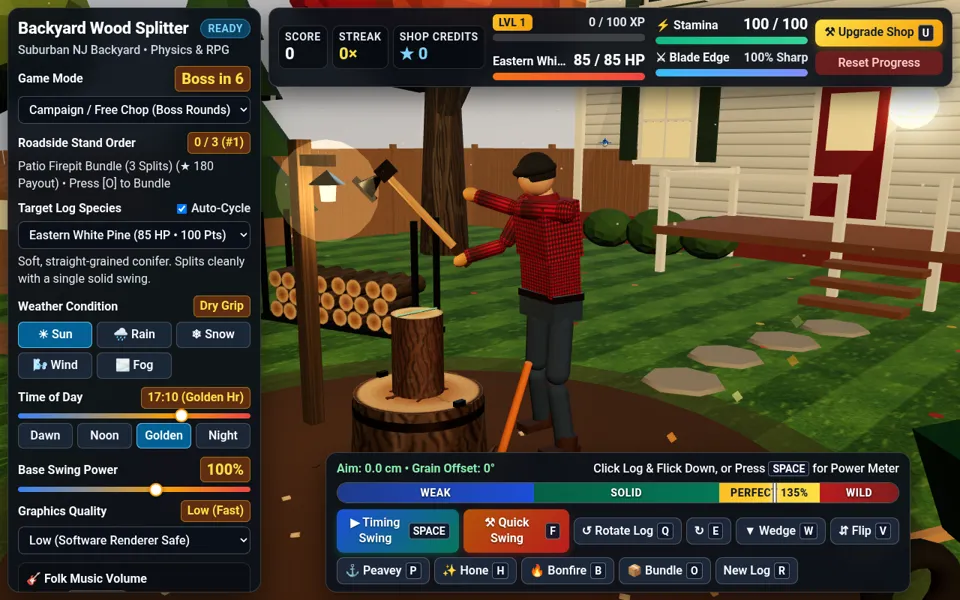
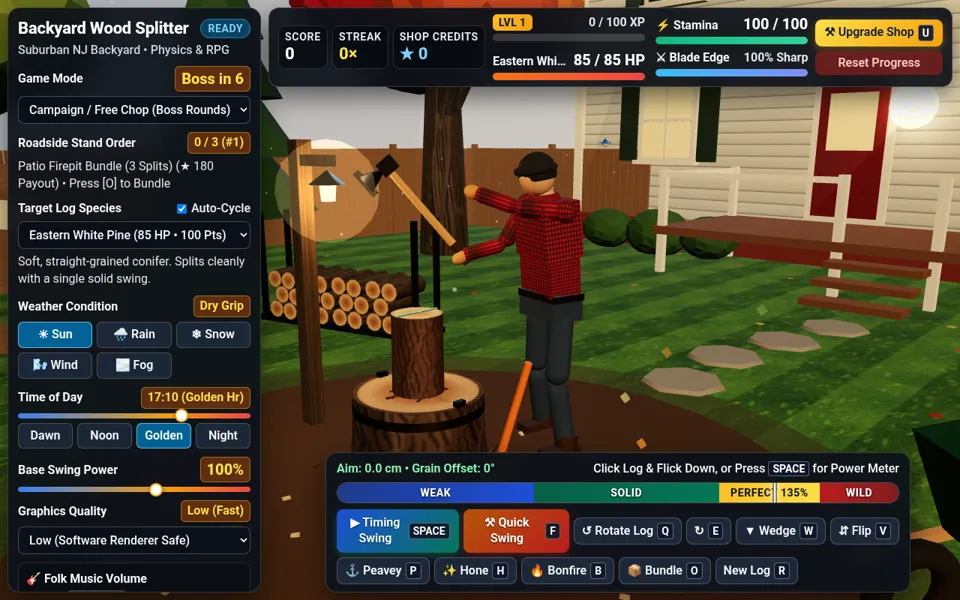
Gemini 4 Argon (in progress): live c4d6ded iter-9, classic c4d6ded iter-9; est. cost refreshed

diff --git a/cost/index.html b/cost/index.html
@@ -70,7 +70,7 @@
 <!-- GEMINI-COST-NOTE START (generated by tools/build_blog.py) -->
 <section class="gemcost" id="gemini-cost" aria-labelledby="gemcost-title">
 <h3 class="h-mid" id="gemcost-title">Gemini 4 Argon so far <span class="tag tag--est">est.</span> <span class="tag tag--est">in progress</span></h3>
-<p class="fine">Gemini 4 Argon is <strong>not</strong> in the table or totals above: it is still being built, and its dollars are <strong>est.</strong> (login-based, not billed). Driver state as of 2026-10-24 08:21:56 EDT.</p>
+<p class="fine">Gemini 4 Argon is <strong>not</strong> in the table or totals above: it is still being built, and its dollars are <strong>est.</strong> (login-based, not billed). Driver state as of 2026-10-24 08:49:07 EDT.</p>
 <div class="tablewrap"><table class="scoreboard" id="sb-gemini">
 <caption class="sr-only">Gemini 4 Argon: estimated cost so far</caption>
 <colgroup><col class="col-metric"><col></colgroup>
@@ -254,7 +254,7 @@
 <tr><th scope="row">assets-v2 attempt-2 (first pass, killed)</th><td class="">10-22 16:04</td><td class="">n/a</td><td class="">n/a</td><td class="">n/a</td><td class="">n/a</td><td class="">$0.29</td><td class=""><span class="tag tag--est">measured via balance</span></td><td class="txt">killed mid-run at about 21:14 ET; unverified work saved as WIP commit b4431ff [Tokens not recorded. $0.29 is the rise of the driver spend counter (balance based) from $8.0918 at 16:04 to $8.3818 at 21:15.]</td></tr>
 </tbody></table></div></details>
 <h3 class="h-mid" id="gemini-runs">A fourth harness: Gemini 4 Argon <span class="tag tag--est">est.</span> <span class="tag tag--est">in progress</span></h3>
-<p class="fine"><strong>In progress, updated as the build continues.</strong> Gemini 4 Argon (high reasoning, through the Antigravity CLI) is building the same game from the same prompts in the same order. It is <strong>not included in any total above</strong>. Estimate, not a charge. Gemini 4 Argon (high) ran through the Antigravity CLI on a Google login, so nothing was billed. Dollars = measured tokens from the CLI’s own result usage x the Gemini 4 Argon list price: $2 per million uncached input, $0.10 per million cached input, $10 per million output (thinking included). Driver state as of 2026-10-24 08:21:56 EDT: phase <span class="mono">v2-attempt-1</span>. Now playing: the classic-phase build c4d6ded (iter-9), before any 3D assets. The Assets v2 round has not finished yet.</p>
+<p class="fine"><strong>In progress, updated as the build continues.</strong> Gemini 4 Argon (high reasoning, through the Antigravity CLI) is building the same game from the same prompts in the same order. It is <strong>not included in any total above</strong>. Estimate, not a charge. Gemini 4 Argon (high) ran through the Antigravity CLI on a Google login, so nothing was billed. Dollars = measured tokens from the CLI’s own result usage x the Gemini 4 Argon list price: $2 per million uncached input, $0.10 per million cached input, $10 per million output (thinking included). Driver state as of 2026-10-24 08:49:07 EDT: phase <span class="mono">v2-attempt-1</span>. Now playing: the classic-phase build c4d6ded (iter-9), before any 3D assets. The Assets v2 round has not finished yet.</p>
 <div class="tablewrap" role="region" aria-label="Gemini totals, scrollable" tabindex="0"><table class="blogtable"><caption class="sr-only">Gemini totals so far (est.)</caption><thead><tr><th scope="col">Harness</th><th scope="col">Runs</th><th scope="col">Agent time</th><th scope="col">Input, uncached</th><th scope="col">Input, cached</th><th scope="col">Output</th><th scope="col">Est. total (USD)</th></tr></thead><tbody>
 <tr><th scope="row">Gemini 4 Argon</th><td class="">15</td><td class="">15.33 h</td><td class="">9,328,654</td><td class="">86,506,269</td><td class="">910,358</td><td class=""><strong>est. $36.41</strong></td></tr>
 </tbody></table></div>

diff --git a/milestones/index.html b/milestones/index.html
@@ -45,7 +45,7 @@
     <h1 id="page-title">How each game grew</h1>
     <p class="lede">The same prompts, in the same order, for every harness. Each shot is a 1280×800 capture of that tagged build, taken the same way every time: load it, take one chop, capture 1.5 s later, in headless Chrome with software rendering (no GPU), so they look softer than on a real graphics card.</p>
 <!-- GEMINI-STATUS START (generated by tools/build_blog.py) -->
-<p class="flag flag--wide ms-gemini"><strong>Gemini 4 Argon is in progress.</strong> Finished rounds: v1, v2, loop, audio, legibility, freeze, v2-setup. Running now: <span class="mono">v2-attempt-1</span>. Playable build: <span class="mono">c4d6ded · iter-9</span>. Driver state as of 2026-10-24 08:21:56 EDT. Its column shows its newest tag as “in progress” until the next milestone is tagged. Its dollars are <strong>est.</strong> (login-based, not billed).</p>
+<p class="flag flag--wide ms-gemini"><strong>Gemini 4 Argon is in progress.</strong> Finished rounds: v1, v2, loop, audio, legibility, freeze, v2-setup. Running now: <span class="mono">v2-attempt-1</span>. Playable build: <span class="mono">c4d6ded · iter-9</span>. Driver state as of 2026-10-24 08:49:07 EDT. Its column shows its newest tag as “in progress” until the next milestone is tagged. Its dollars are <strong>est.</strong> (login-based, not billed).</p>
 <!-- GEMINI-STATUS END -->
 <!-- MILESTONES START (generated by tools/build_milestones.py) -->
 <div class="ms-toolbar"><div class="seg" role="group" aria-label="Layout"><button type="button" data-view="grid" aria-pressed="true">Compare harnesses</button><button type="button" data-view="harness" aria-pressed="false">One harness</button></div><p class="ms-legend">Cost = cumulative game-build runs to that tag; list-price equivalent, <strong>est.</strong> where estimated. Click a shot to enlarge it.</p></div>
